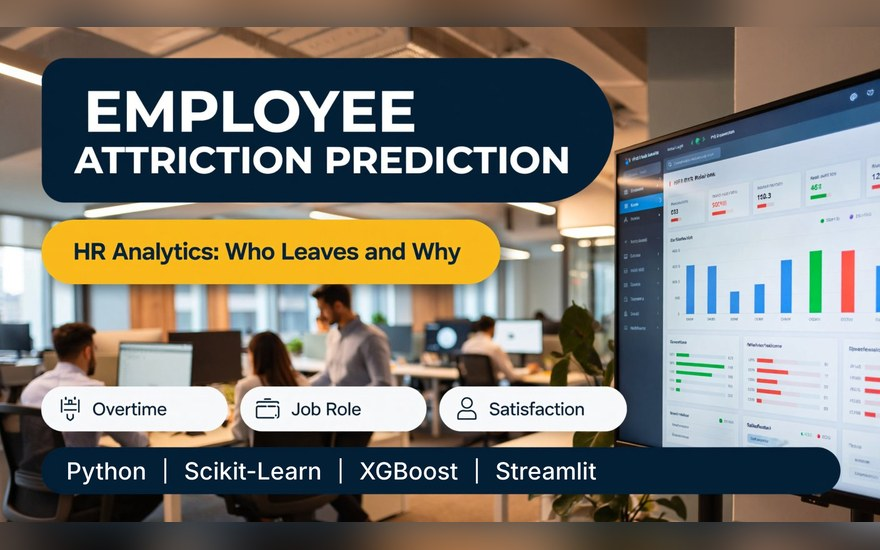
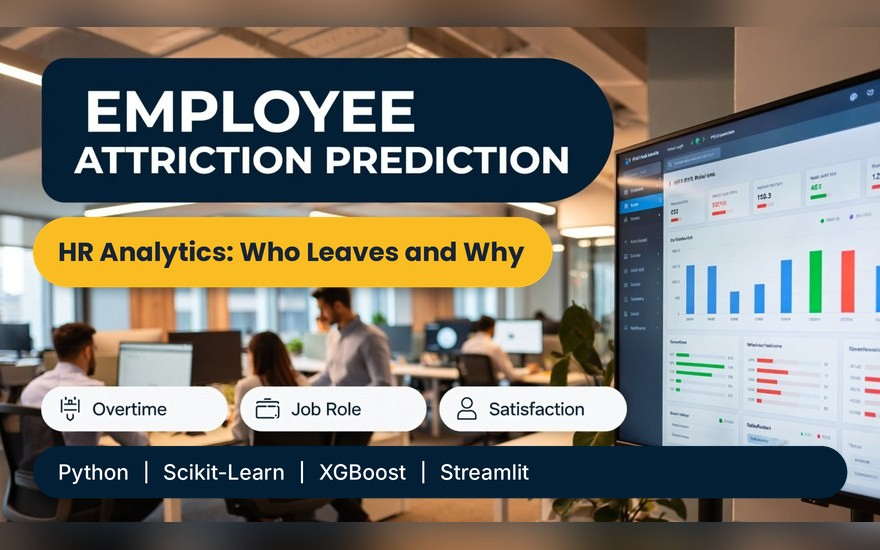
Match subtitle pill and tech bar on five ML card posters to the first three
Claude-Session: https://claude.ai/code/session_0149ZQrfuG7TBYKWBudKiQmk

diff --git a/data/projects.js b/data/projects.js
@@ -48,7 +48,7 @@ window.PROJECTS = [
     category: "data-analytics",
     description: "Analyzes 5,000 emergency room visits to find what drives patient waits, and predicts a new patient's wait at arrival with a leakage-free Gradient Boosting model (R2 0.94).",
     tech: ["Scikit-Learn", "Pandas", "Seaborn", "Streamlit"],
-    image: "assets/images/er-wait-time-prediction.jpg?v=2",
+    image: "assets/images/er-wait-time-prediction.jpg?v=3",
     github: "https://github.com/Qasim00760/er-wait-time-prediction",
     live: "https://mq-er-wait-time-prediction.streamlit.app/"
   },
@@ -59,7 +59,7 @@ window.PROJECTS = [
     category: "machine-learning",
     description: "Gradient Boosting model trained on 96k UK used car listings that prices a car from its make, model, age, mileage and specs to within 6.6% on average (R2 0.97).",
     tech: ["Scikit-Learn", "Gradient Boosting", "Pandas", "Streamlit"],
-    image: "assets/images/car-price-prediction.jpg?v=2",
+    image: "assets/images/car-price-prediction.jpg?v=3",
     github: "https://github.com/Qasim00760/car-price-prediction",
     live: "https://mq-car-price-prediction.streamlit.app/"
   },
@@ -68,7 +68,7 @@ window.PROJECTS = [
     category: "machine-learning",
     description: "Predicts a tunnel boring machine's next-stroke penetration from thrust, torque, RPM, rock quality and recent strokes, validated on unseen tunnel sections, and flags slow strokes ahead of time.",
     tech: ["Random Forest", "Scikit-Learn", "Pandas", "Streamlit"],
-    image: "assets/images/tbm-penetration-prediction.jpg?v=2",
+    image: "assets/images/tbm-penetration-prediction.jpg?v=3",
     github: "https://github.com/Qasim00760/tbm-penetration-prediction",
     live: "https://mq-tbm-penetration-prediction.streamlit.app/"
   },
@@ -77,7 +77,7 @@ window.PROJECTS = [
     category: "machine-learning",
     description: "Scores each employee's risk of leaving and explains the score. Logistic Regression beat Random Forest and XGBoost in cross-validation (ROC-AUC 0.83) and catches 74% of leavers.",
     tech: ["Scikit-Learn", "XGBoost", "Classification", "Streamlit"],
-    image: "assets/images/employee-attrition-prediction.jpg?v=2",
+    image: "assets/images/employee-attrition-prediction.jpg?v=3",
     github: "https://github.com/Qasim00760/employee-attrition-prediction",
     live: "https://mq-employee-attrition-prediction.streamlit.app/"
   },
@@ -86,7 +86,7 @@ window.PROJECTS = [
     category: "machine-learning",
     description: "Scores a news article's chance of going popular on social media before it is published, trained on 39k real Mashable articles and tested on newer ones (ROC-AUC 0.74).",
     tech: ["Gradient Boosting", "Scikit-Learn", "Pandas", "Streamlit"],
-    image: "assets/images/social-media-shares-prediction.jpg?v=2",
+    image: "assets/images/social-media-shares-prediction.jpg?v=3",
     github: "https://github.com/Qasim00760/social-media-shares-prediction",
     live: "https://mq-social-media-shares-prediction.streamlit.app/"
   },

diff --git a/index.html b/index.html
@@ -307,7 +307,7 @@
     </button>
   </div>
 
-  <script src="./data/projects.js?v=22"></script>
+  <script src="./data/projects.js?v=23"></script>
   <script src="./assets/js/script.js?v=7"></script>
 
   <script>
